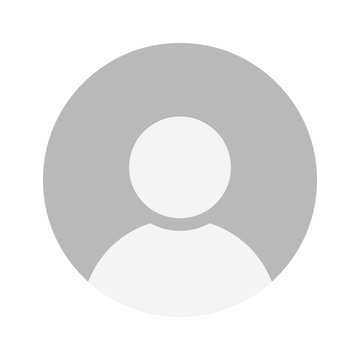
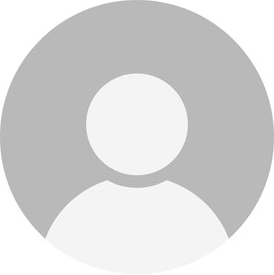
Minor update
- Update on profile picture

diff --git a/agile_project/lib/scenes/user/ProfileBody.dart b/agile_project/lib/scenes/user/ProfileBody.dart
@@ -34,35 +34,34 @@ class ProfileSceneState extends State<ProfileScene> {
   Widget build(BuildContext context) {
     user = Provider.of<AppUser?>(context);
     initialUserInfo();
-    return (user == null) ? buildNonUserScene() : buildUserScene(); 
+    return (user == null) ? buildNonUserScene() : buildUserScene();
   }
 
-  Widget buildNonUserScene(){
+  Widget buildNonUserScene() {
     return Column(
       children: [
         const ProfilePic(),
         const SizedBox(height: 20),
         ProfileMenu(
-          text: "Login", 
-          press: () {
-            Navigator.push(
-                    context,
-                    MaterialPageRoute(
-                        builder: (context) => const MyLoginScene()));
-          }, 
-          icons: const Icon(Icons.login), 
-          value: ""),
+            text: "Login",
+            press: () {
+              Navigator.push(
+                  context,
+                  MaterialPageRoute(
+                      builder: (context) => const MyLoginScene()));
+            },
+            icons: const Icon(Icons.login),
+            value: ""),
         ProfileMenu(
-          text: "Register", 
-          press: () {
-            Navigator.push(
-                    context,
-                    MaterialPageRoute(
-                        builder: (context) => const MyRegisterScene()));
-          }, 
-          icons: const Icon(Icons.app_registration_rounded), 
-          value: ""),
-
+            text: "Register",
+            press: () {
+              Navigator.push(
+                  context,
+                  MaterialPageRoute(
+                      builder: (context) => const MyRegisterScene()));
+            },
+            icons: const Icon(Icons.app_registration_rounded),
+            value: ""),
       ],
     );
   }
@@ -75,87 +74,97 @@ class ProfileSceneState extends State<ProfileScene> {
           return const Loading();
         } else {
           return Column(
-      children: [
-        ProfilePic(),
-        SizedBox(height: 20),
-        ProfileMenu(
-          text: "Name",
-          icons: const Icon(Icons.person),
-          value: information!.userName,
-          press: () async {
-            bool result = false;
-            result = await Navigator.push(
-                context,
-                MaterialPageRoute(
-                    builder: (context) => UserNameFieldScene(
-                        uid: user!.uid, data: information!.userName)));
-            if(result){
-              setState(() {});
-            }
-          },
-        ),
-        ProfileMenu(
-          text: "Contact Number",
-          icons: const Icon(Icons.phone),
-          value: information!.phoneNumber ?? "",
-          press: () async {
-            bool result = false;
-            result = await  Navigator.push(
-                              context,
-                              MaterialPageRoute(
-                                  builder: (context) => ContactNumberScene(
-                                      uid: user!.uid, data: information!.phoneNumber ?? "")));
-            if(result){
-              setState(() {});
-            }
-          },
-        ),
-        ProfileMenu(
-          text: "Email Address",
-          icons: const Icon(Icons.email),
-          value: information!.emailAddress,
-          press: () {
-          },
-          notDisplayArrow: true,
-        ),
-        ProfileMenu(
-          text: "My Billing Address",
-          icons: const Icon(Icons.location_city),
-          value: "",
-          press: () {
-            Navigator.push(context,
-                MaterialPageRoute(builder: (context) =>  const MyAddressScene(addressType: AddressType.billing,)));
-          },
-        ),
-        ProfileMenu(
-          text: "My Shipping Address",
-          icons: const Icon(Icons.location_city),
-          value: "",
-          press: () {
-            Navigator.push(context,
-                MaterialPageRoute(builder: (context) => const MyAddressScene(addressType:  AddressType.shipping,)));
-          },
-        ),
-        ProfileMenu(
-          text: "My Order",
-          icons: const Icon(Icons.shopping_bag),
-          value: "",
-          press: () {
-            Navigator.push(context,
-                MaterialPageRoute(builder: (context) => const MyOrderListScene()));
-          },
-        ),
-        ProfileMenu(
-          text: "Logout",
-          icons: const Icon(Icons.exit_to_app),
-          value: "",
-          press: () {
-            AuthService authService = AuthService();
-            authService.signOut();
-          },
-        ),
-      ],
-    );
+            children: [
+              ProfilePic(),
+              SizedBox(height: 20),
+              ProfileMenu(
+                text: "Name",
+                icons: const Icon(Icons.person),
+                value: information!.userName,
+                press: () async {
+                  bool result = false;
+                  result = await Navigator.push(
+                      context,
+                      MaterialPageRoute(
+                          builder: (context) => UserNameFieldScene(
+                              uid: user!.uid, data: information!.userName)));
+                  if (result) {
+                    setState(() {});
+                  }
+                },
+              ),
+              ProfileMenu(
+                text: "Contact Number",
+                icons: const Icon(Icons.phone),
+                value: information!.phoneNumber ?? "",
+                press: () async {
+                  bool result = false;
+                  result = await Navigator.push(
+                      context,
+                      MaterialPageRoute(
+                          builder: (context) => ContactNumberScene(
+                              uid: user!.uid,
+                              data: information!.phoneNumber ?? "")));
+                  if (result) {
+                    setState(() {});
+                  }
+                },
+              ),
+              ProfileMenu(
+                text: "Email Address",
+                icons: const Icon(Icons.email),
+                value: information!.emailAddress,
+                press: () {},
+                notDisplayArrow: true,
+              ),
+              ProfileMenu(
+                text: "My Billing Address",
+                icons: const Icon(Icons.location_city),
+                value: "",
+                press: () {
+                  Navigator.push(
+                      context,
+                      MaterialPageRoute(
+                          builder: (context) => const MyAddressScene(
+                                addressType: AddressType.billing,
+                              )));
+                },
+              ),
+              ProfileMenu(
+                text: "My Shipping Address",
+                icons: const Icon(Icons.location_city),
+                value: "",
+                press: () {
+                  Navigator.push(
+                      context,
+                      MaterialPageRoute(
+                          builder: (context) => const MyAddressScene(
+                                addressType: AddressType.shipping,
+                              )));
+                },
+              ),
+              ProfileMenu(
+                text: "My Order",
+                icons: const Icon(Icons.shopping_bag),
+                value: "",
+                press: () {
+                  Navigator.push(
+                      context,
+                      MaterialPageRoute(
+                          builder: (context) => const MyOrderListScene()));
+                },
+              ),
+              ProfileMenu(
+                text: "Logout",
+                icons: const Icon(Icons.exit_to_app),
+                value: "",
+                press: () {
+                  AuthService authService = AuthService();
+                  authService.signOut();
+                },
+              ),
+            ],
+          );
         }
       },
     );

diff --git a/agile_project/lib/scenes/user/profile_pic.dart b/agile_project/lib/scenes/user/profile_pic.dart
@@ -18,34 +18,47 @@ class ProfilePic extends StatelessWidget {
   @override
   Widget build(BuildContext context) {
     return SizedBox(
-      height: 110,
-      width: 110,
-      child: Stack(
-        fit: StackFit.expand,
-        children: [
-          const CircleAvatar(
-            backgroundImage: AssetImage("images/signup_top.png"),
-          ),
-          Positioned(
-            right: -12,
-            bottom: 0,
-            child: SizedBox(
-              height: 46,
-              width: 46,
-              child: FlatButton(
-                padding: EdgeInsets.zero,
-                shape: RoundedRectangleBorder(
-                  borderRadius: BorderRadius.circular(50),
-                  side: BorderSide(color: Colors.white),
-                ),
-                color: Color(0xFFF5F6F9),
-                onPressed: () {},
-                child: SvgPicture.asset("images/profilepic.png"),
-              ),
-            ),
-          )
-        ],
-      ),
-    );
+        height: 120,
+        width: 120,
+        child: Padding(
+            padding: const EdgeInsets.all(10.0),
+            child: const CircleAvatar(
+              backgroundImage: AssetImage("images/profilepic.png"),
+            )));
   }
+
+  // @override
+  // Widget build(BuildContext context) {
+  //   return SizedBox(
+  //     height: 110,
+  //     width: 110,
+  //     child: Stack(
+  //       fit: StackFit.expand,
+  //       children: [
+  //         const CircleAvatar(
+  //           radius: 50,
+  //           backgroundImage: AssetImage("images/profilepic.png"),
+  //         ),
+  //         // Positioned(
+  //         //   right: -12,
+  //         //   bottom: 0,
+  //         //   child: SizedBox(
+  //         //     height: 46,
+  //         //     width: 46,
+  //         //     child: FlatButton(
+  //         //       padding: EdgeInsets.zero,
+  //         //       shape: RoundedRectangleBorder(
+  //         //         borderRadius: BorderRadius.circular(50),
+  //         //         side: BorderSide(color: Colors.white),
+  //         //       ),
+  //         //       color: Color(0xFFF5F6F9),
+  //         //       onPressed: () {},
+  //         //       child: SvgPicture.asset("images/profilepic.png"),
+  //         //     ),
+  //         //   ),
+  //         // )
+  //       ],
+  //     ),
+  //   );
+  // }
 }
